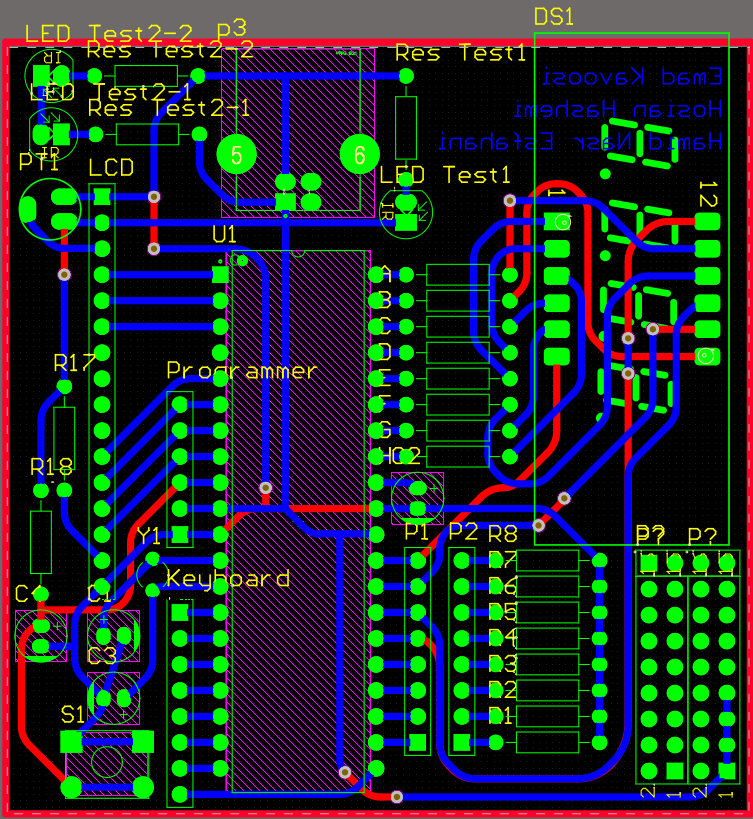
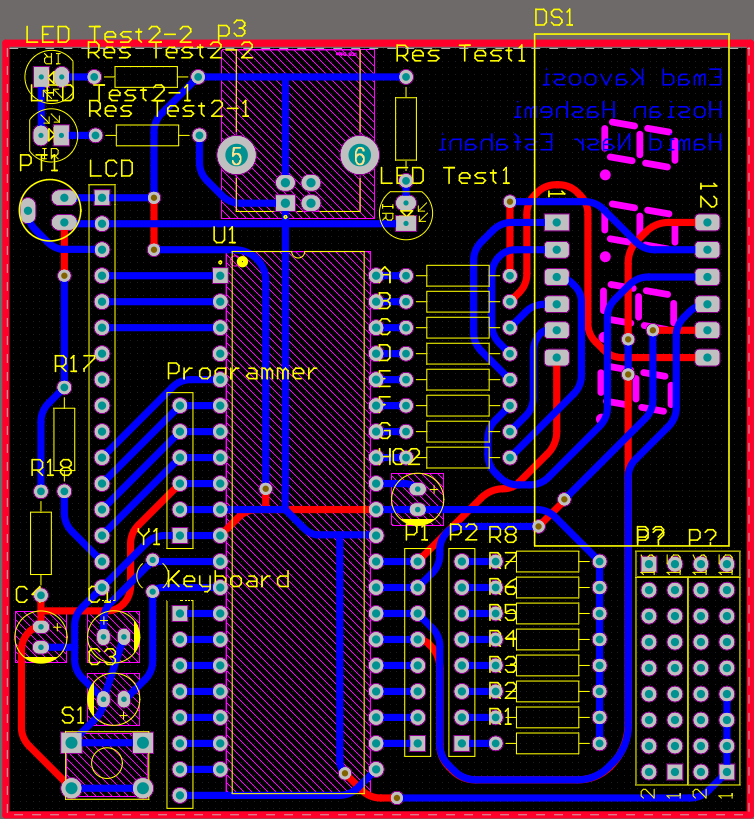
Update Readme and Fix Board Image

diff --git a/README.md b/README.md
@@ -1,1 +1,3 @@
 # AVR Calculator MicroController
+
+![alt text](https://github.com/HamidNE1/AVR_Calculator/blob/master/bord.png "Micro Board")
